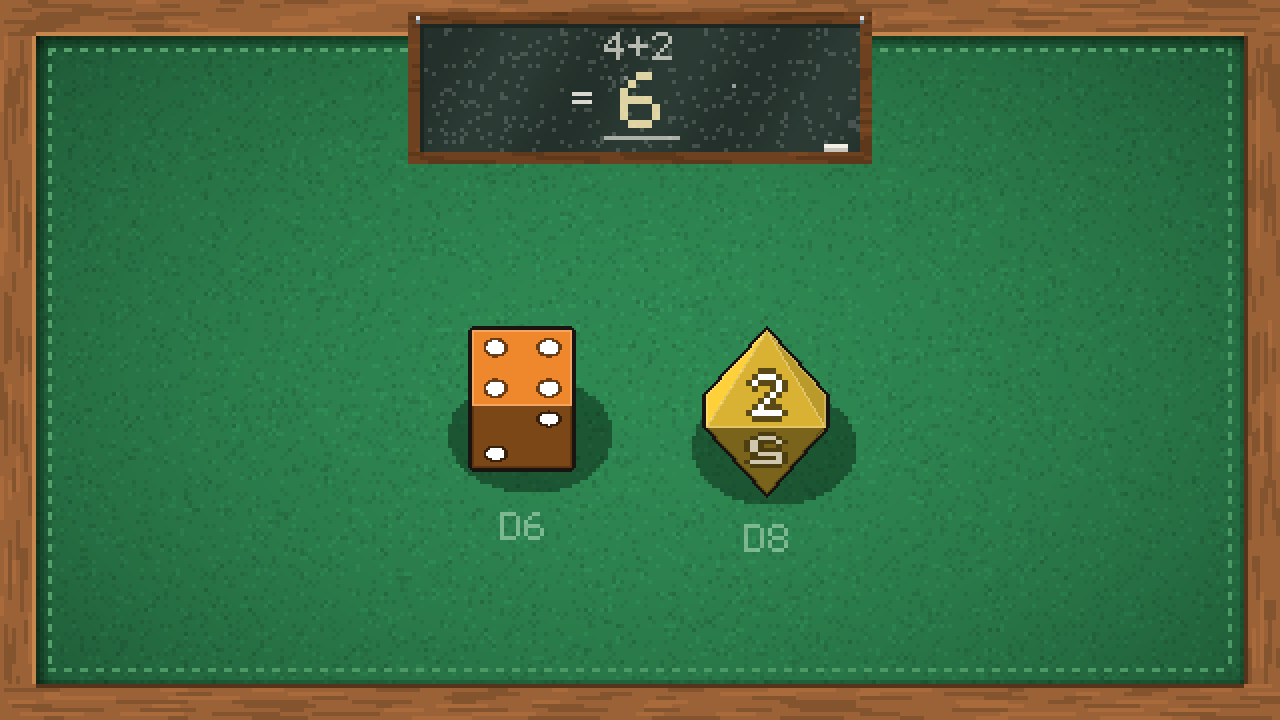
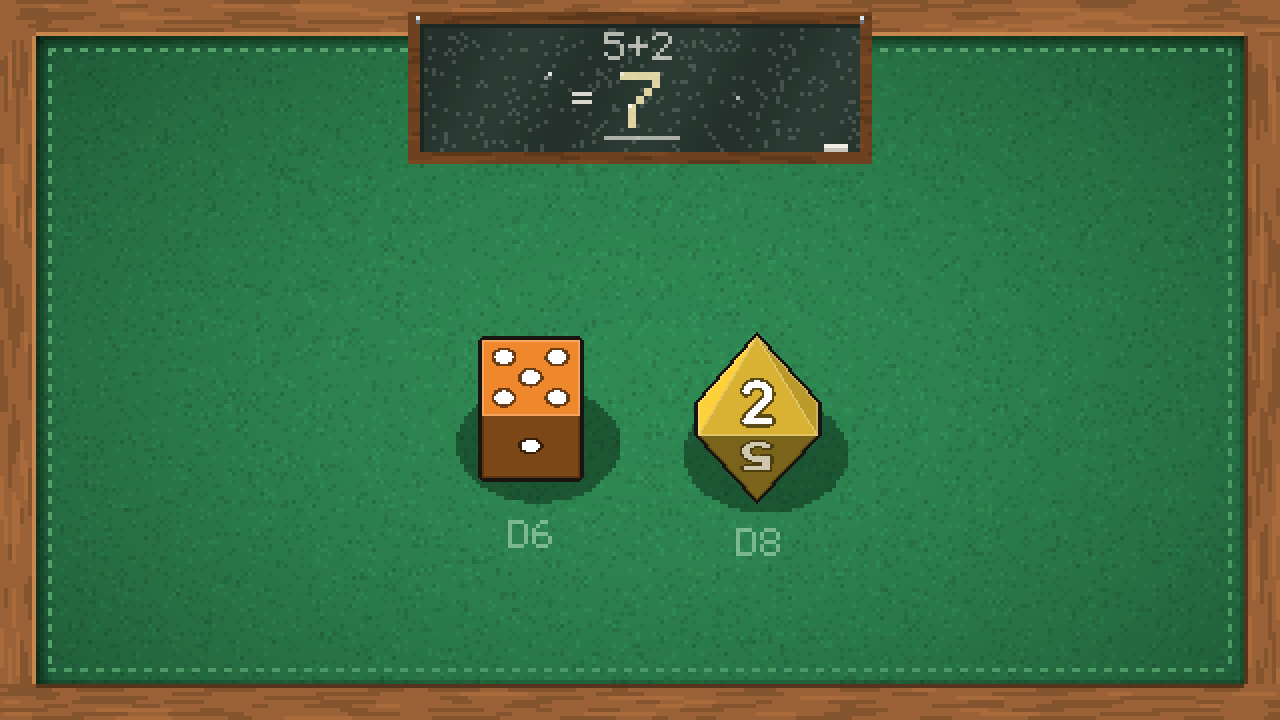
DICE: smooth stroke digits on the faces; Mac demo shows the clock
The dice used the chunky 5x7 bitmap font. Their numbers are now drawn as smooth
strokes (distance to a few line segments per digit), mapped onto each face, so
they read like the print on real dice at any angle.

The Mac demo has no Settings window, so its launcher turns the clock on.

diff --git a/src/savers/dice.c b/src/savers/dice.c
@@ -547,65 +547,103 @@ static void to_screen(const Die *e, float R, Vec3 v, float *x, float *y) {
     *y = (w.y * CAM_S - w.z * CAM_C) * R;
 }
 
-/* Paints a mask (0 nothing, 1 rim, 2 ink) centred on (ox, oy). One mask pixel steps by
-   (ax, ay) across and (bx, by) down, so the bitmap lies flat on a tilted face. */
-static void paint_on_face(Canvas *c, const unsigned char *mask, int mw, int mh, float ox, float oy,
-                          float ax, float ay, float bx, float by, uint32_t rim, uint32_t ink) {
-    float det = ax * by - ay * bx;
-    if (fabsf(det) < 0.05f) return;  /* seen edge-on */
-    float hw = mw * 0.5f, hh = mh * 0.5f, x0 = 1e9f, y0 = 1e9f, x1 = -1e9f, y1 = -1e9f;
-    for (int k = 0; k < 4; k++) {
-        float u = k & 1 ? hw : -hw, v = k & 2 ? hh : -hh, px = ox + ax * u + bx * v, py = oy + ay * u + by * v;
-        x0 = fminf(x0, px); x1 = fmaxf(x1, px); y0 = fminf(y0, py); y1 = fmaxf(y1, py);
-    }
-    for (int y = (int)floorf(y0); y <= (int)ceilf(y1); y++)
-        for (int x = (int)floorf(x0); x <= (int)ceilf(x1); x++) {
-            float dx = x + 0.5f - ox, dy = y + 0.5f - oy;
-            int i = (int)floorf((dx * by - dy * bx) / det + hw), j = (int)floorf((ax * dy - ay * dx) / det + hh);
-            if (i < 0 || j < 0 || i >= mw || j >= mh || !mask[j * mw + i]) continue;
-            put(c, x, y, rgb(mask[j * mw + i] == 2 ? ink : rim));
-        }
+/* ---------- stroke digits printed on the dice ---------- */
+
+/* Dice numbers are drawn as smooth strokes, not the chunky 5x7 bitmap font: each digit is
+   a few line segments (arcs are short chains) in a box 1 wide and 1.5 tall, y down, and
+   each pixel is coloured by its distance to the nearest stroke. */
+typedef struct { float x0, y0, x1, y1; } Seg;
+#define DSEGS 48
+static Seg DIGIT[10][DSEGS];
+static int NSEG[10];
+
+static void dseg(int d, float x0, float y0, float x1, float y1) {
+    if (NSEG[d] < DSEGS) DIGIT[d][NSEG[d]++] = (Seg){ x0, y0, x1, y1 };
 }
 
-/* A number printed on a face: centre p, text axes right/up (model space), mask pixel size px. */
+static void darc(int d, float cx, float cy, float rx, float ry, float a0, float a1, int n) {
+    for (int i = 0; i < n; i++) {
+        float t0 = (a0 + (a1 - a0) * i / n) * PI_F / 180, t1 = (a0 + (a1 - a0) * (i + 1) / n) * PI_F / 180;
+        dseg(d, cx + rx * cosf(t0), cy + ry * sinf(t0), cx + rx * cosf(t1), cy + ry * sinf(t1));
+    }
+}
+
+static void dbez(int d, float x0, float y0, float x1, float y1, float x2, float y2, int n) {
+    float px = x0, py = y0;
+    for (int i = 1; i <= n; i++) {
+        float t = (float)i / n, u = 1 - t;
+        float x = u * u * x0 + 2 * u * t * x1 + t * t * x2, y = u * u * y0 + 2 * u * t * y1 + t * t * y2;
+        dseg(d, px, py, x, y);
+        px = x; py = y;
+    }
+}
+
+static void build_digits(void) {
+    if (NSEG[0]) return;
+    darc(0, 0.5f, 0.75f, 0.4f, 0.66f, 0, 360, 20);
+    dseg(1, 0.55f, 0.09f, 0.55f, 1.41f); dseg(1, 0.55f, 0.09f, 0.25f, 0.35f); dseg(1, 0.25f, 1.41f, 0.85f, 1.41f);
+    darc(2, 0.5f, 0.44f, 0.38f, 0.35f, 195, 380, 10); dseg(2, 0.86f, 0.56f, 0.12f, 1.41f); dseg(2, 0.12f, 1.41f, 0.9f, 1.41f);
+    darc(3, 0.48f, 0.42f, 0.36f, 0.32f, 210, 450, 12); darc(3, 0.48f, 1.06f, 0.42f, 0.35f, 270, 510, 12);
+    dseg(4, 0.68f, 1.41f, 0.68f, 0.09f); dseg(4, 0.68f, 0.09f, 0.1f, 0.98f); dseg(4, 0.1f, 0.98f, 0.92f, 0.98f);
+    dseg(5, 0.86f, 0.09f, 0.22f, 0.09f); dseg(5, 0.22f, 0.09f, 0.17f, 0.66f); darc(5, 0.49f, 1.0f, 0.41f, 0.41f, 230, 500, 14);
+    dbez(6, 0.82f, 0.12f, 0.12f, 0.2f, 0.12f, 1.0f, 8); darc(6, 0.5f, 1.02f, 0.38f, 0.39f, 0, 360, 16);
+    dseg(7, 0.1f, 0.09f, 0.9f, 0.09f); dseg(7, 0.9f, 0.09f, 0.38f, 1.41f);
+    darc(8, 0.5f, 0.4f, 0.32f, 0.31f, 0, 360, 14); darc(8, 0.5f, 1.06f, 0.39f, 0.35f, 0, 360, 16);
+    darc(9, 0.5f, 0.48f, 0.38f, 0.39f, 0, 360, 16); dbez(9, 0.88f, 0.5f, 0.88f, 1.3f, 0.18f, 1.38f, 8);
+}
+
+static float seg_d2(const Seg *g, float x, float y) {
+    float dx = g->x1 - g->x0, dy = g->y1 - g->y0, l2 = dx * dx + dy * dy;
+    float t = l2 > 0 ? ((x - g->x0) * dx + (y - g->y0) * dy) / l2 : 0;
+    t = t < 0 ? 0 : (t > 1 ? 1 : t);
+    float ex = g->x0 + dx * t - x, ey = g->y0 + dy * t - y;
+    return ex * ex + ey * ey;
+}
+
+#define STROKE 0.12f   /* half the stroke width, in digit units */
+#define RIM 0.1f       /* the darker engraved edge around it */
+#define ADVANCE 1.2f   /* digit spacing */
+
+/* A number printed on a face, centred on (ox, oy): its text axes are right/up (model
+   space) and a digit is 7 * px tall, so it foreshortens and turns with the face. */
 static void face_number(Dice *d, const Die *e, float ox, float oy, Vec3 right, Vec3 up, float px,
                         int value, uint32_t face, uint32_t ink, float a) {
     uint32_t rim = mixc(face, shade(face, 0.42f), a);
     ink = mixc(face, ink, a);
     char s[4];
     snprintf(s, sizeof s, "%d", value);
-    int bar = value == 6 || value == 9, tw = glyphs_w(s, 1), th = FONT_H + (bar ? 2 : 0);
-    int mw = tw + 2, mh = th + 2;
-    unsigned char mask[16 * 13] = { 0 };
-    for (int k = 0; s[k]; k++) {
-        const char *const *g = font_glyph(s[k]);
-        for (int j = 0; g && j < FONT_H; j++)
-            for (int i = 0; i < FONT_W; i++)
-                if (g[j][i] == '#') mask[(j + 1) * mw + k * (FONT_W + 1) + i + 1] = 2;
-    }
-    if (bar) for (int i = 0; i < tw; i++) mask[th * mw + i + 1] = 2;   /* 6. and 9. */
-    for (int j = 0; j < mh; j++)
-        for (int i = 0; i < mw; i++)
-            if (!mask[j * mw + i] && ((i > 0 && mask[j * mw + i - 1] == 2) || (i < mw - 1 && mask[j * mw + i + 1] == 2) ||
-                                      (j > 0 && mask[(j - 1) * mw + i] == 2) || (j < mh - 1 && mask[(j + 1) * mw + i] == 2)))
-                mask[j * mw + i] = 1;
+    int n = (int)strlen(s), bar = value == 6 || value == 9;
+    float u = FONT_H * px / 1.5f;                      /* model units per digit unit */
+    float W = n + (n - 1) * (ADVANCE - 1), top = -0.75f, bottom = bar ? 0.98f : 0.75f;
     float ax, ay, bx, by, R = (float)(d->R * FINE);
-    to_screen(e, R, v_scale(right, px), &ax, &ay);
-    to_screen(e, R, v_scale(up, -px), &bx, &by);
-    if (ax > 0 && by > 0 && fabsf(ay) < 0.1f * ax && fabsf(bx) < 0.1f * by) {
-        /* Square on to the viewer (a die at rest): draw it as crisp whole pixels. */
-        int sc = (int)lroundf(fminf(ax, by)), x0, y0;
-        if (sc < 1) sc = 1;
-        x0 = (int)lroundf(ox - mw * sc / 2.0f);
-        y0 = (int)lroundf(oy - mh * sc / 2.0f);
-        for (int j = 0; j < mh; j++)
-            for (int i = 0; i < mw; i++)
-                if (mask[j * mw + i])
-                    fill_rect(&d->fine, x0 + i * sc, y0 + j * sc, x0 + i * sc + sc - 1, y0 + j * sc + sc - 1,
-                              rgb(mask[j * mw + i] == 2 ? ink : rim));
-        return;
+    to_screen(e, R, v_scale(right, u), &ax, &ay);
+    to_screen(e, R, v_scale(up, -u), &bx, &by);
+    float det = ax * by - ay * bx;
+    if (fabsf(det) < 0.3f) return;                     /* seen edge-on */
+    float m = STROKE + RIM, x0 = 1e9f, y0 = 1e9f, x1 = -1e9f, y1 = -1e9f;
+    for (int k = 0; k < 4; k++) {
+        float lx = k & 1 ? W / 2 + m : -W / 2 - m, ly = k & 2 ? bottom + m : top - m;
+        float sx = ox + ax * lx + bx * ly, sy = oy + ay * lx + by * ly;
+        x0 = fminf(x0, sx); x1 = fmaxf(x1, sx); y0 = fminf(y0, sy); y1 = fmaxf(y1, sy);
     }
-    paint_on_face(&d->fine, mask, mw, mh, ox, oy, ax, ay, bx, by, rim, ink);
+    for (int y = (int)floorf(y0); y <= (int)ceilf(y1); y++)
+        for (int x = (int)floorf(x0); x <= (int)ceilf(x1); x++) {
+            float dx = x + 0.5f - ox, dy = y + 0.5f - oy;
+            float lx = (dx * by - dy * bx) / det + W / 2, ly = (ax * dy - ay * dx) / det + 0.75f;
+            float best = 1e9f;
+            for (int k = 0; k < n; k++) {
+                float gx = lx - k * ADVANCE;
+                if (gx < -m || gx > 1 + m) continue;
+                int dg = s[k] - '0';
+                for (int i = 0; i < NSEG[dg]; i++) best = fminf(best, seg_d2(&DIGIT[dg][i], gx, ly));
+            }
+            if (bar) {                                  /* the line under 6 and 9 */
+                Seg g = { 0.15f, 1.73f, W - 0.15f, 1.73f };
+                best = fminf(best, seg_d2(&g, lx, ly));
+            }
+            if (best < STROKE * STROKE) put(&d->fine, x, y, rgb(ink));
+            else if (best < m * m) put(&d->fine, x, y, rgb(rim));
+        }
 }
 
 /* A pip: a disc on the face at (u, v) in the face's own units, with a dark rim. */
@@ -1399,6 +1437,7 @@ static void *create(SDL_Renderer *r, int w, int h) {
     d->bx = (d->W - d->bw) / 2;
     d->by = d->F / 2 - 1 > 1 ? d->F / 2 - 1 : 1;
 
+    build_digits();
     /* Build the 3D meshes for all 6 dice kinds */
     d->mesh[D4]  = build_d4();
     d->mesh[D6]  = build_d6();
